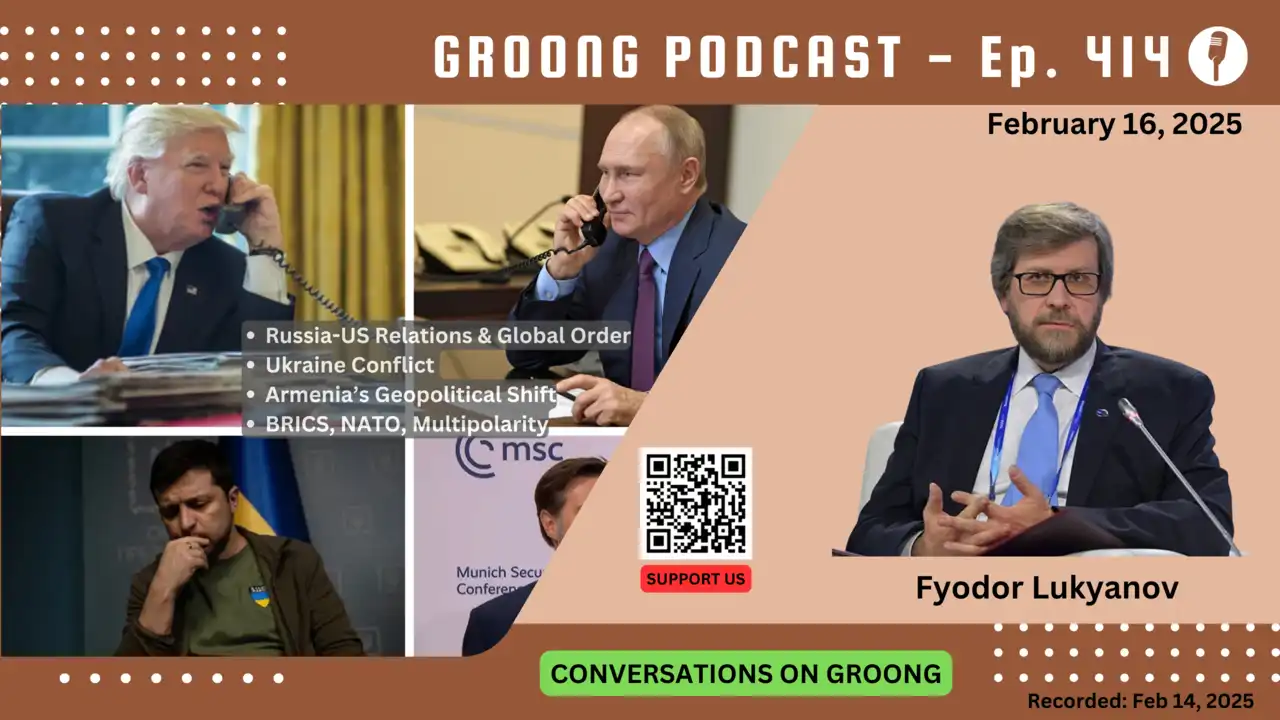
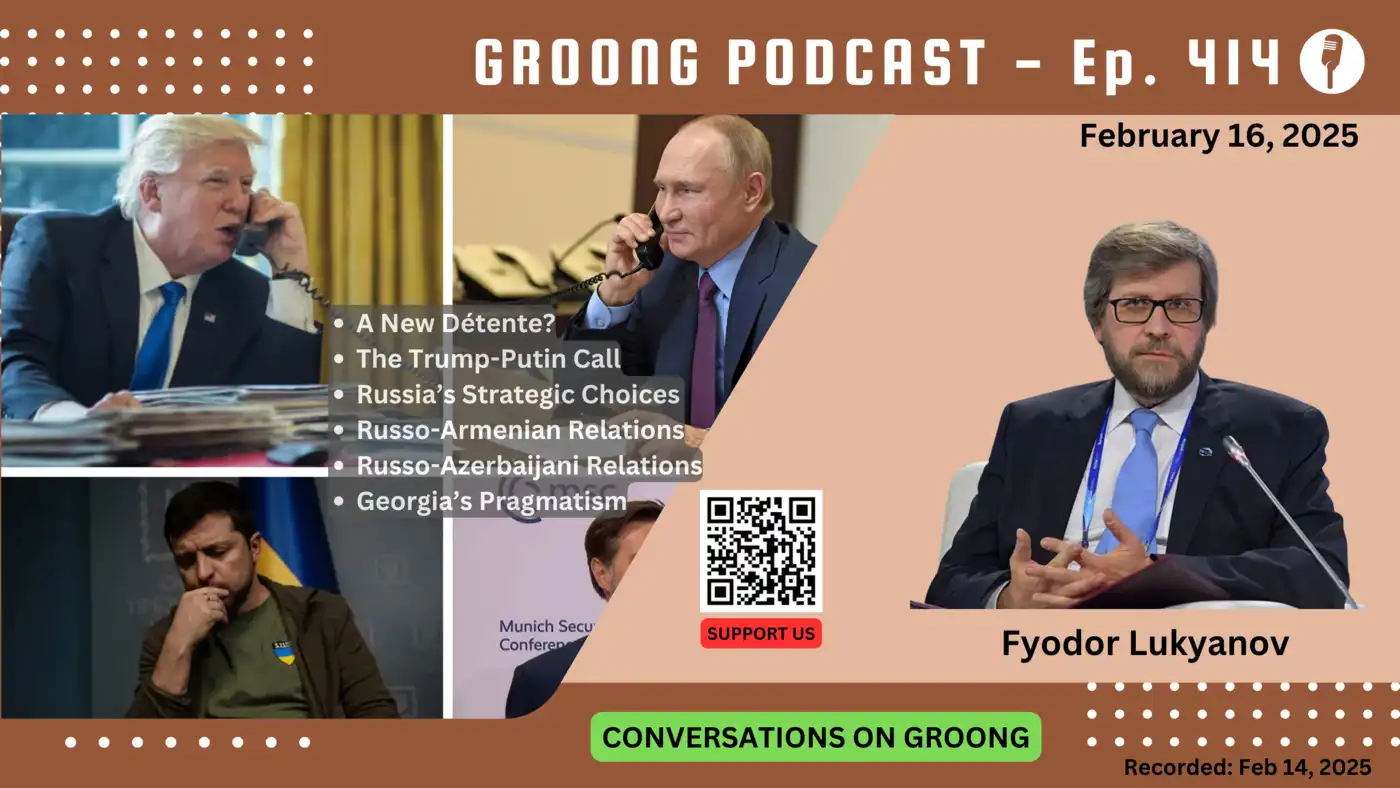
Content & tag added ep 414

diff --git a/content/episode/414-fyodor-lukyanov-russia-us-geopolitics-ukraine-war-armenia-policy-brics-nato-multipolarity-eurasia-global-order.md b/content/episode/414-fyodor-lukyanov-russia-us-geopolitics-ukraine-war-armenia-policy-brics-nato-multipolarity-eurasia-global-order.md
@@ -21,7 +21,7 @@ aliases = ["/414"]
 
 series = ["cog", "video"]
 categories = ["Russia", "Ukraine", "Armenia"]
-tags = []
+tags = ["Armenian News", "Fyodor Lukyanov", "Russia", "US", "Ukraine", "Armenia", "Azerbaijan", "Georgia", "South Caucasus", "Putin", "Trump", "NATO", "BRICS", "G8", "Eurasia", "geopolitics", "global order", "diplomacy", "multipolar world", "sanctions", "Zangezur Corridor", "Syunik", "Iran", "Turkey", "European Union", "EAEU", "foreign policy", "international relations", "peace talks", "Trump-Putin call", "Armenia-Russia relations", "Armenia-EU relations", "Russo-Georgian relations", "Russo-Azerbaijani relations", "security", "military strategy", "economic policy", "de-dollarization", "world politics", "Russian diplomacy"]
 
 Description = """
 
@@ -33,12 +33,13 @@ Description = """
 * [Fyodor Lukyanov](/guest/flukyanov)
 
 #### Topics:
-- **A New Détente?** Russia-US relations and evolving global dynamics
-- **The Trump-Putin Call** and its implications for Ukraine
-- **Russia’s Strategic Choices**: BRICS, G8, and multipolarity
-- **Russo-Armenian Relations** and Armenia’s geopolitical shift
-- **The Zangezur Corridor** and Azerbaijan’s regional ambitions
-- **Georgia’s Pragmatism** and its impact on Russia’s strategy
+* A New Détente?
+* The Trump-Putin Call
+* Russia’s Strategic Choices
+* Russo-Armenian Relations
+* Russo-Azerbaijani Relations
+* Georgia’s Pragmatism
+
 
 Episode 414 | Recorded: Valentine’s Day, February 14, 2025
 """
